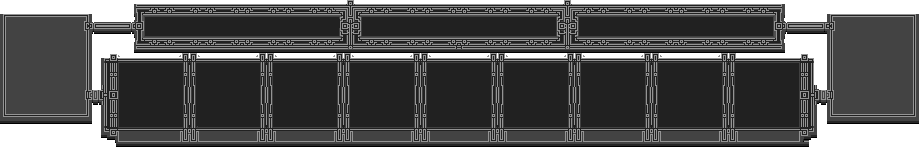
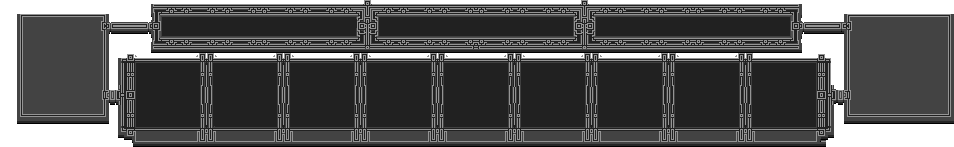
art: Add new end turn button

diff --git a/src/style.css b/src/style.css
@@ -619,8 +619,14 @@ kbd {
   color: var(--book-leather-dark);
 }
 
+#card-holders-inner {
+  left: 17px;
+  position: relative;
+}
+
 #card-holders-inner .card-title {
   color: white;
+  padding: 2px 4px;
 }
 
 .card-title {
@@ -717,24 +723,24 @@ body.your-turn #end-turn-btn {
 }
 
 body.your-turn #end-turn-btn:hover {
-  filter: brightness(145%);
+  filter: drop-shadow(0 0 0.4rem rgb(255, 255, 255));
 }
 
 #end-turn-btn {
-  border: 16px solid;
-  border-image-outset: 0;
-  border-image-repeat: stretch;
-  border-image-slice: 250;
-  border-image-source: url("/ui/Assets_Icon_Border_QtrCircle_1_Purple.png");
-  border-image-width: 1;
+  width: 94px;
+  height: 95px;
+  background-image: url('/ui/iconButtonBlankUp.png');
+}
+
+#end-turn-btn:active {
+  background-image: url('/ui/iconButtonBlankDown.png');
+}
+
+#end-turn-btn {
   /* z-index set explicitly to make sure it renders overtop of the cardhand so that it will
   change the cursor from a cursor-casting to just cursor */
   z-index: 2;
-  opacity: 0.5;
-  /* Match the size of the inventory icon so the toolbar remains centered */
-  /* Note the width should take into account the border so 80-16*2 = 48 */
-  width: 40px;
-  height: 60px;
+  opacity: 0.75;
   white-space: normal;
   /* Overrides button-wrapper nstyles */
   /* Ensures that the toolbar remains centered on the screen */
@@ -744,7 +750,7 @@ body.your-turn #end-turn-btn:hover {
   background-color: #483f8e;
   /* Position inside spellBar.png */
   position: absolute;
-  right: 10px;
+  right: 8px;
   top: 19px
 }
 
@@ -756,6 +762,7 @@ body.your-turn #end-turn-btn:hover {
   color: white;
   position: relative;
   text-align: center;
+  padding: 0 4px;
 }
 
 #end-turn-btn-inner .hotkey-badge-holder {
@@ -1435,7 +1442,7 @@ body.open-inventory #inventory-container {
   background-image: url('images/card-designs/bookStone.png');
   background-size: contain;
   position: absolute;
-  left: 4px;
+  left: 21px;
   top: 7px;
 }
 
@@ -1712,7 +1719,7 @@ body.auto-camera #camera-recenter-tip {
   background-repeat: no-repeat;
   margin-bottom: 8px;
   /* Matches the dimentions of the spellBar.png exactly */
-  width: 919px;
+  width: 954px;
   height: 147px;
   position: relative;
 }

diff --git a/docs/TasksCurrent.md b/docs/TasksCurrent.md
@@ -1,3 +1,6 @@
+# Focus
+- Get build ready for streamers and reach out
+- Contact Translators
 # Before next streamer outreach
     - test new spells in multiplayer
     - test perk list on small resoution
